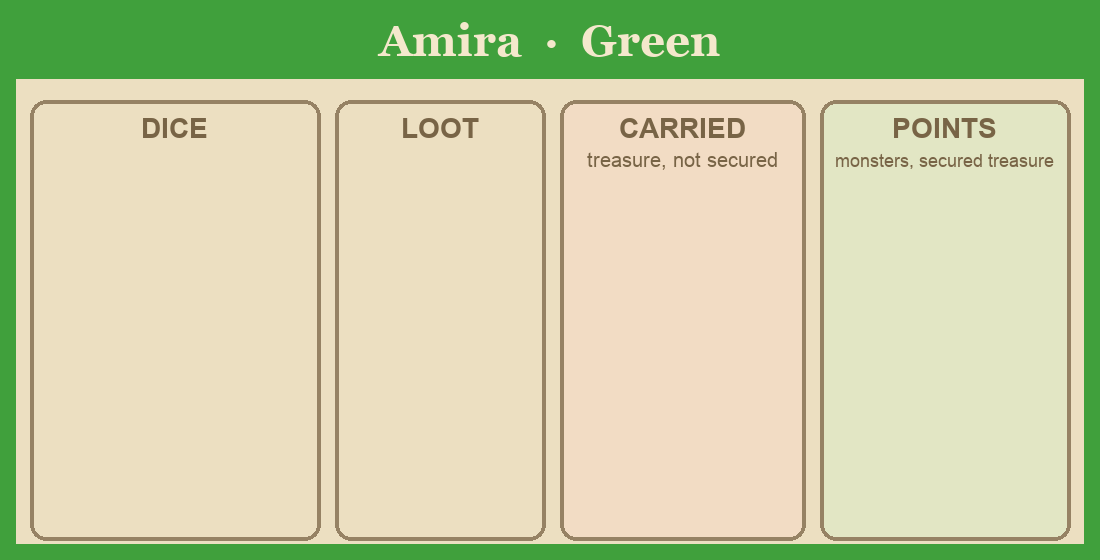
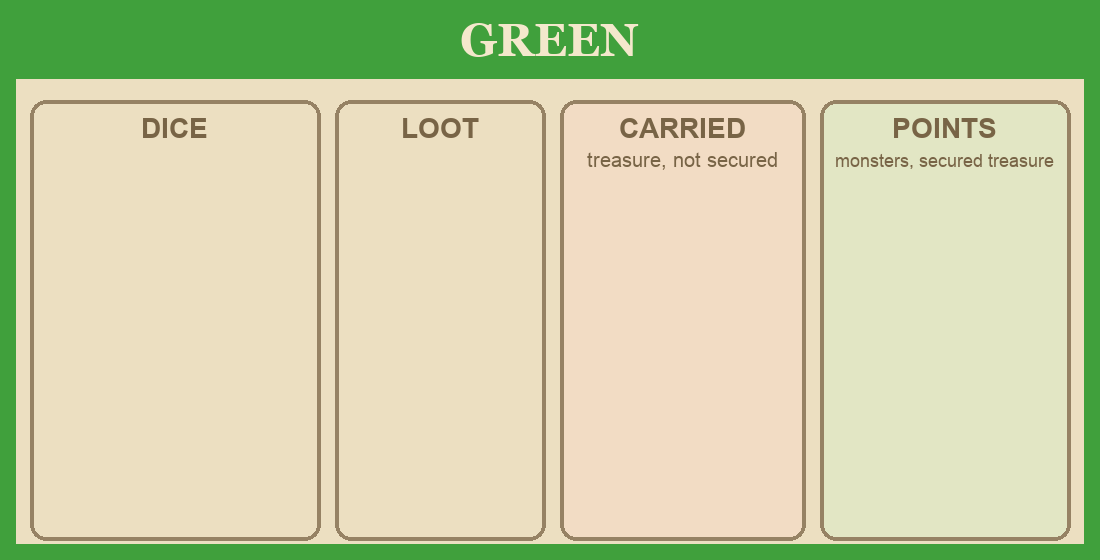
Mats show only the seat colour, without the team members' names
The save is on the Steam Workshop, so the names (Bora, Anastasya, Amira, Esma, Yusuf) came off the
mats and the pieces' names; seats are just Red, Yellow, Green, Blue and Purple.

Changed region(s): [[0.34, 0.0304, 0.6491, 0.1214]]

diff --git a/realtime/tts/build.py b/realtime/tts/build.py
@@ -37,12 +37,12 @@ SYM_NAME = {"move": "MOVEMENT", "attack": "ATTACK", "magic": "MAGIC"}
 STONE, WALL, FLOOR = (92, 86, 78), (44, 40, 36), (150, 140, 122)
 TRAP_COL, PRANK_COL, SAFE_COL = (204, 112, 26), (112, 48, 128), (92, 44, 122)
 STEEL = (204, 204, 210)
-# 3-5 players (§1). The bots of v0.1 sat at four seats; the fifth is Yusuf's, the team's fifth member.
+# 3-5 players (§1): five seats. The mats show only the seat colour: the team members' names came off when the
+# save went on the Steam Workshop (Yavuz, 2026-10-25: "kartlardan isimleri kaldır").
 COLORS = ["Red", "Yellow", "Green", "Blue", "Purple"]
 RGB = {"Red": (0.856, 0.1, 0.094), "Yellow": (0.905, 0.898, 0.172), "Green": (0.192, 0.701, 0.168),
        "Blue": (0.118, 0.53, 1.0), "Purple": (0.627, 0.125, 0.941)}
 PIX = {"Red": (200, 60, 52), "Yellow": (214, 190, 40), "Green": (64, 160, 60), "Blue": (52, 120, 210), "Purple": (140, 64, 196)}
-NAMES = {"Red": "Bora", "Yellow": "Anastasya", "Green": "Amira", "Blue": "Esma", "Purple": "Yusuf"}
 
 # ------------------------------------------------------------------ game content (our choices where the document is open)
 # Dice (§5): a D6 with Movement, Attack and Magic; the document names no other face, so two of each.
@@ -417,7 +417,7 @@ def mat_img(color):
     d.rectangle((0, 0, MAT_W - 1, MAT_H - 1), outline=PIX[color], width=16)
     d.rectangle((0, 0, MAT_W, 78), fill=PIX[color])
     light = color in ("Yellow",)
-    d.text((MAT_W / 2, 40), f"{NAMES[color]}  ·  {color}", font=f(BLACK, 44), fill=INK if light else CREAM, anchor="mm")
+    d.text((MAT_W / 2, 40), color.upper(), font=f(BLACK, 46), fill=INK if light else CREAM, anchor="mm")
     for key, (x0, x1, head, sub) in MAT_BOX.items():
         fill = {"carry": (242, 220, 196), "points": (226, 230, 196)}.get(key)
         d.rounded_rectangle((x0, 100, x1, 540), 16, fill=fill, outline=(150, 130, 100), width=4)
@@ -683,9 +683,9 @@ objs.append(base("Deck", tr(*LOOT_POS, face_down=True, s=0.75, y=1.3), "Loot Dec
 DICE_IMG = url("dice.png")
 for c in COLORS:
     mx = MAT_X[c]
-    objs.append(tile(f"mat-{c.lower()}.png", tr(mx, MAT_Z, s=MAT_S, y=1.02), f"{NAMES[c]} ({c})", thick=0.06,
+    objs.append(tile(f"mat-{c.lower()}.png", tr(mx, MAT_Z, s=MAT_S, y=1.02), f"{c} mat", thick=0.06,
                      Tags=["mat"], GMNotes=c))
-    objs.append(base("PlayerPawn", tr(*PAWN_HOME[c], 0.0, s=1.1, y=1.6), f"{NAMES[c]}'s character", Locked=False,
+    objs.append(base("PlayerPawn", tr(*PAWN_HOME[c], 0.0, s=1.1, y=1.6), f"{c} character", Locked=False,
                      ColorDiffuse={"r": RGB[c][0], "g": RGB[c][1], "b": RGB[c][2]}, Tags=["pawn"], GMNotes=c))
     for i in range(4):
         objs.append(base("Custom_Dice", tr(*DICE_SUPPLY[COLORS.index(c) * 4 + i], 0.0, s=1.5, y=1.46), f"{c} die {i + 1}",

diff --git a/CHANGELOG.md b/CHANGELOG.md
@@ -12,7 +12,8 @@ The team's answer to the teacher's feedback (§12-§14) is in `realtime/` (save 
 - Trap Tiles (§13): 6 trap rooms in the stack, two each of Spike Pit, Pressure Plate and Collapsing Passage, with the rule printed on the tile. A trap goes off every time someone walks in. "Losing a turn" became "stop and count to 10". A Collapsing Passage room caves in after its visitor leaves and gets one of the 2 new rubble tokens.
 - Prank Cards (§14): Sticky Fingers, Wrong Turn, Monster Magnet and Trap Surprise, two of each, join the Loot Deck (18 cards instead of 10). Play any time, but not on a player in the Safe Room.
 - The feedback in the counts: 7 monster rooms instead of 11 and 9 monster tokens instead of 13 ("reduce fighting"); 6 special treasures instead of 3, so more Loot comes out ("not enough loot cards"). Common treasures went from 6 to 3.
-- A fifth seat, Purple (Yusuf), for 3-5 players (§1).
+- A fifth seat, Purple, for 3-5 players (§1). The mats show only their seat colour (RED, YELLOW ...) and the mats and
+  characters are named by colour: the team members' names are off the table now that the save is on the Workshop.
 - The save can now be played, not only filmed. START GAME shuffles the room stack, the token piles and the Loot Deck, gives 4 dice to every seated player (all five sets if nobody sits at a mat colour), puts the characters in the Safe Room and starts the 10-minute timer. At 0:00 the screen shows TIME'S UP. RESET TABLE puts everything back, Loot cards included. Rooms, tokens, dice, characters and rubble are no longer locked; the tutorial locks them while it films.
 - Face-down rooms and tokens are called just "Room", "Monster token" or "Treasure token", so hovering over them gives nothing away. Loot cards and the Safe Room show their rule on hover.
 - The timer of a real game follows the clock, so it can't drift.

diff --git a/realtime/README.md b/realtime/README.md
@@ -41,7 +41,7 @@ Sit at Red, Yellow, Green, Blue or Purple and press START GAME (top left, under 
 | Treasures | All need 2 Magic. 3 common (1 point), 3 rare (3 points), 6 special (1 point and a Loot card). The feedback asked for more Loot: 6 special treasures instead of 3 |
 | Loot Deck | 18 cards, two of each: Iron Sword (counts as 1 Attack), Swift Boots (1 Movement), Rune Amulet (1 Magic), Lucky Charm (once: turn a die to any symbol), Fire Bomb (once: beat a weak monster without rolling) and the four Pranks |
 | Acting | Moving goes to a connected room. A monster or treasure is taken in its own room |
-| Seats | Five, for 3-5 players (§1): Red Bora, Yellow Anastasya, Green Amira, Blue Esma, Purple Yusuf |
+| Seats | Five, for 3-5 players (§1): Red, Yellow, Green, Blue and Purple. The mats show only the colour |
 | Tie | Most monsters defeated wins (the document's own suggestion, §11) |
 | Timer | On screen, top right. START GAME starts it; it follows the clock, so it never drifts |
 
